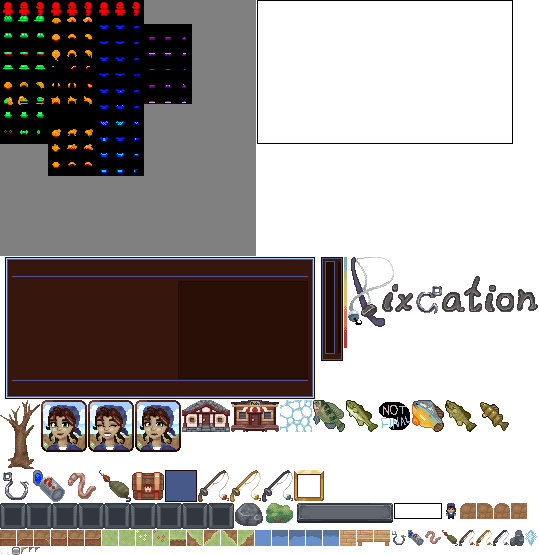
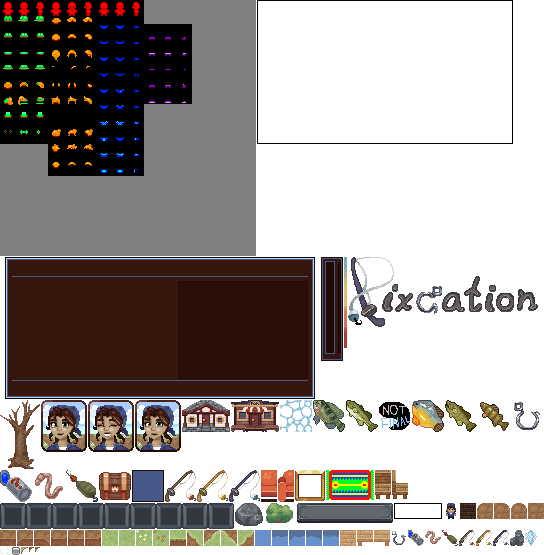
let the player walk into residents' homes with seeded rooms, couches, rugs, tables, and chairs

diff --git a/game.js b/game.js
@@ -5529,6 +5529,93 @@ function createMysteryBaitTextures(scene) {
     }
 }
 
+function getInteriorTexture(scene, key, source, from, to) {
+    if (scene.textures.exists(key)) return key;
+    const { width, height, data } = getTerrainPixels(scene, source), pixels = new ImageData(new Uint8ClampedArray(data), width, height);
+    for (let pixel = 0; pixel < width * height; pixel++) {
+        const slot = from.indexOf(readTreePixel(pixels.data, pixel));
+        if (slot >= 0 && pixels.data[pixel * 4 + 3]) writeRGBPixel(pixels.data, pixel, to[slot]);
+    }
+    createCanvasTexture(scene, key, width, height, context => context.putImageData(pixels, 0, 0));
+    return key;
+}
+
+function getRugColors(house, random) {
+    const options = [];
+    for (const chunk of loadedChunks.values()) for (const npc of chunk.npcs || []) if (house.residents.includes(npc.id)) options.push((palette => [palette.shirt[1], palette.pants[1], palette.skin[1], palette.hair[1], palette.top[1], palette.shirtAccent, palette.pantsAccent[1]])(getPersonPalette(npc.look)));
+    if (!options.length) options.push(INTERIOR_COUCH_PALETTES.map(ramp => ramp[4]));
+    const colors = [];
+    for (let slot = 0; slot < INTERIOR_RUG_SLOTS.length; slot++) {
+        const choices = options[slot % options.length].filter(color => !colors.includes(color));
+        colors.push(choices.length ? choices[Math.floor(random() * choices.length)] : options[0][slot]);
+    }
+    return colors;
+}
+
+function buildInterior(scene, house) {
+    const random = createSeededRandom(Math.floor(worldHash(house.x, house.y, 3301) * 4294967296));
+    const width = 8 + Math.floor(random() * 3), height = 5 + Math.floor(random() * 3), exit = Math.floor(width / 2);
+    const left = (house.doorX - exit) * TILE_SIZE, top = (house.doorY - height) * TILE_SIZE;
+    const room = { house, left, top, right: left + width * TILE_SIZE, bottom: top + height * TILE_SIZE, doorLeft: left + exit * TILE_SIZE, blocked: [], layer: scene.add.layer().setDepth(INTERIOR_DEPTH) };
+    const place = (key, x, y, depth, flip = false) => room.layer.add(scene.add.image(x, y, key).setOrigin(0).setDepth(depth).setFlipX(flip));
+    room.layer.add(scene.add.rectangle(-2000, -2000, 6000, 6000, 0x000000).setOrigin(0).setScrollFactor(0).setDepth(-1e9));
+    for (let row = 0; row <= height; row++) for (let column = 0; column < width; column++) if (row < height || column === exit) place('insideFloor', left + column * TILE_SIZE, top + row * TILE_SIZE, -1e8);
+    const rugX = left + TILE_SIZE / 2 + Math.floor(random() * (width * TILE_SIZE - 64)), rugY = top + TILE_SIZE + 4 + Math.floor(random() * (height * TILE_SIZE - 60));
+    place(getInteriorTexture(scene, `rug-${house.id}`, 'recolorableRug', INTERIOR_RUG_SLOTS, getRugColors(house, random)), rugX, rugY, -1e7);
+    const couchLength = 3 + Math.floor(random() * 2), couchColumn = Math.floor(random() * (width - couchLength + 1)), couchPalette = Math.floor(random() * INTERIOR_COUCH_PALETTES.length);
+    for (let index = 0; index < couchLength; index++) place(getInteriorTexture(scene, `couch-${index % (couchLength - 1) ? 'mid' : 'side'}-${couchPalette}`, index % (couchLength - 1) ? 'couchMid' : 'couchSide', INTERIOR_COUCH_SHADES, INTERIOR_COUCH_PALETTES[couchPalette]), left + (couchColumn + index) * TILE_SIZE, top - TILE_SIZE, top + TILE_SIZE, index === couchLength - 1);
+    room.blocked.push([left + couchColumn * TILE_SIZE, top, left + (couchColumn + couchLength) * TILE_SIZE, top + TILE_SIZE]);
+    const tableLength = 2 + Math.floor(random() * 2), tableRow = 2 + Math.floor(random() * (height - 4)), tableColumn = 1 + Math.floor(random() * (width - tableLength - 1)), tableY = top + tableRow * TILE_SIZE;
+    for (let index = 0; index < tableLength; index++) place(index ? index === tableLength - 1 ? 'woodRight' : 'wood' : 'woodLeft', left + (tableColumn + index) * TILE_SIZE, tableY, tableY + TILE_SIZE);
+    room.blocked.push([left + tableColumn * TILE_SIZE, tableY, left + (tableColumn + tableLength) * TILE_SIZE, tableY + TILE_SIZE]);
+    const chair = (key, column, row, flip) => { place(key, left + column * TILE_SIZE, top + (row + 1) * TILE_SIZE - 29, top + (row + 1) * TILE_SIZE - 0.5, flip); room.blocked.push([left + column * TILE_SIZE + 2, top + row * TILE_SIZE + 8, left + (column + 1) * TILE_SIZE - 2, top + (row + 1) * TILE_SIZE]); };
+    if (random() < 0.75) chair('chairSide', tableColumn - 1, tableRow, false);
+    if (random() < 0.75) chair('chairSide', tableColumn + tableLength, tableRow, true);
+    if (random() < 0.6) chair('chairFront', tableColumn + Math.floor(random() * tableLength), tableRow - 1, false);
+    return Object.assign(room, { startX: room.doorLeft, startY: room.bottom - CHARACTER_SIZE });
+}
+
+function canOccupyInterior(left, top, right, bottom) {
+    const inside = left >= interior.left && right <= interior.right && top >= interior.top && bottom <= interior.bottom;
+    const doorway = left >= interior.doorLeft && right <= interior.doorLeft + TILE_SIZE && top >= interior.top && bottom <= interior.bottom + TILE_SIZE;
+    return (inside || doorway) && !interior.blocked.some(([blockLeft, blockTop, blockRight, blockBottom]) => left < blockRight && right > blockLeft && top < blockBottom && bottom > blockTop);
+}
+
+function snapInteriorCamera() {
+    mainCamera.setScroll(character.x + CHARACTER_SIZE / 2 - mainCamera.width / 2, character.y + CHARACTER_SIZE / 2 - mainCamera.height / 2);
+    cameraScrollX = mainCamera.scrollX; cameraScrollY = mainCamera.scrollY; cameraOffsetX = 0; cameraOffsetY = 0;
+}
+
+function enterInterior(scene, house) {
+    interior = buildInterior(scene, house);
+    interior.layer.add(character);
+    characterShadow.image.setVisible(false);
+    character.setPosition(interior.startX, interior.startY);
+    characterDirection = 'back';
+    setCharacterTexture('character-back');
+    snapInteriorCamera();
+}
+
+function leaveInterior() {
+    if (!interior) return;
+    worldObjectLayer.add(character);
+    character.setPosition(interior.house.doorX * TILE_SIZE, interior.house.doorY * TILE_SIZE);
+    interior.layer.destroy();
+    interior = null;
+    characterShadow.image.setVisible(true);
+    characterDirection = 'front';
+    setCharacterTexture('character-front');
+    snapInteriorCamera();
+}
+
+function updateInterior(scene) {
+    if (spawnReturn || isMenuOpen()) return;
+    const top = character.y + CHARACTER_HITBOX_Y, centerX = character.x + CHARACTER_HITBOX_X + CHARACTER_HITBOX_WIDTH / 2;
+    if (interior) { if (top + CHARACTER_HITBOX_HEIGHT > interior.bottom + 6) leaveInterior(); return; }
+    if (!characterKeys.up.isDown && !characterKeys.upArrow.isDown) return;
+    for (const house of npcHouseCache.values()) if (house && npcHouseSprites.has(house.id) && Math.abs(centerX - (house.doorX + 0.5) * TILE_SIZE) < 5 && top >= house.doorY * TILE_SIZE - 1 && top <= house.doorY * TILE_SIZE + 2) return enterInterior(scene, house);
+}
+
 const fishMigrations = [];
 let fishRegionStack;
 let fishRegionPixels;
@@ -8245,7 +8332,7 @@ function createInteractionPromptUI(scene) {
 function updateInteractionPrompt(scene, guideReach, marketReach) {
     if (!interactionPromptLayer) return;
 
-    const time = scene.time.now, available = !isMenuOpen() && time >= catchCardUntil;
+    const time = scene.time.now, available = !isMenuOpen() && !interior && time >= catchCardUntil;
     const target = available && (guideReach < 1 || marketReach < 1)
         ? getInteractionTarget(guideHasMetPlayer, guideReach, marketReach)
         : null;
@@ -9904,6 +9991,27 @@ const FISH_JUMP_DROPLET_COLOR = 0xbce6eb;
 const NPC_DRAW_MARGIN = 128;
 const HOUSE_WIDTH = 48;
 const HOUSE_HEIGHT = 32;
+const INTERIOR_DEPTH = 55;
+const INTERIOR_COUCH_SHADES = [0x802c29, 0x943531, 0xa83e39, 0xc2513d, 0xdd6641, 0xe5854d, 0xeca259];
+const INTERIOR_RUG_SLOTS = [0xff1100, 0x00ff1a, 0x0048ff, 0xfff600];
+const INTERIOR_COUCH_PALETTES = [
+    [0x802c29, 0x943531, 0xa83e39, 0xc2513d, 0xdd6641, 0xe5854d, 0xeca259],
+    [0x1f2a5c, 0x26346e, 0x2f4183, 0x3a549c, 0x4a6bb8, 0x6286c9, 0x86a5d8],
+    [0x174a4a, 0x1d5a58, 0x236b67, 0x2c827a, 0x3a9c90, 0x56b3a4, 0x80c9b8],
+    [0x24401f, 0x2c4e25, 0x355d2c, 0x427336, 0x528a40, 0x6ca255, 0x92bb72],
+    [0x464420, 0x555226, 0x64602c, 0x7a7536, 0x928c42, 0xa8a258, 0xc0bb7c],
+    [0x7a5418, 0x8e631c, 0xa27321, 0xbc8a2a, 0xd4a336, 0xdfb850, 0xe8cd7a],
+    [0x3e2360, 0x4a2b72, 0x573486, 0x6a43a0, 0x8156b8, 0x9a73c9, 0xb898da],
+    [0x5a1e3c, 0x6a2547, 0x7b2c53, 0x933866, 0xab477b, 0xbf6593, 0xd38db0],
+    [0x9a3c5c, 0xae4868, 0xc25675, 0xd66b88, 0xe5849c, 0xeda0b3, 0xf3bfcd],
+    [0x3c3c42, 0x48484f, 0x55555d, 0x686871, 0x7e7e87, 0x96969e, 0xb3b3b9],
+    [0x1e1e24, 0x26262d, 0x2f2f37, 0x3b3b44, 0x4a4a54, 0x5e5e69, 0x787883],
+    [0x9c8a6a, 0xae9c7a, 0xc0ae8b, 0xd3c29f, 0xe2d4b4, 0xece2c8, 0xf5eedc],
+    [0x4a2c1c, 0x583421, 0x673e27, 0x7c4d30, 0x94603b, 0xab774d, 0xc39466],
+    [0x3d6a96, 0x467aa7, 0x5089b8, 0x5f9ecb, 0x74b4dc, 0x92c8e6, 0xb6dcef],
+    [0x3f7a62, 0x488b6f, 0x529c7d, 0x63b18f, 0x79c6a3, 0x98d6b9, 0xbde5d1],
+    [0x6a5a8c, 0x77679c, 0x8575ad, 0x9888c2, 0xad9ed4, 0xc2b5e0, 0xd9cfec]
+];
 const MYSTERY_CYCLE_MINUTES = 20;
 const MYSTERY_FORECAST_CYCLES = 3;
 const MYSTERY_CATCH_CHANCE = 0.85;
@@ -9925,6 +10033,7 @@ let itemLabelUntil = 0;
 let itemPrompt;
 let selectedHotbarSlot = 0;
 let worldObjectLayer;
+let interior = null;
 
 const loadedChunks = new Map();
 const loadedWaterChunks = new Set();
@@ -10119,6 +10228,7 @@ function getTextureAliases() {
     for (const key of ['bush', 'boulder', 'rock', 'tree-bare', 'store', 'house']) {
         alias(key, `environment/objects/${key}`);
     }
+    for (const key of ['couchMid', 'couchSide', 'insideFloor', 'recolorableRug', 'chairFront', 'chairSide']) alias(key, `environment/interior/${key}`);
 
     for (const mood of ['friendly', 'laughing', 'surprised']) {
         alias(`guide-portrait-${mood}`, `characters/guide/${mood}`);
@@ -10220,6 +10330,7 @@ function bindGameInput(scene) {
     };
 
     const pressAction = source => {
+        if (interior) return;
         if (catchCardUntil === Infinity) hideCatchCard(scene);
         const wasHeld = heldActions.size > 0;
         heldActions.add(source);
@@ -10369,8 +10480,8 @@ function bindGameInput(scene) {
         else if (code === 'Space') pressAction('keyboard');
         else if (key === 'm') openMenu(() => openMap(scene));
         else if (key === 'b') cycleBait(scene);
-        else if (code === 'KeyH') { closeMap(scene); resetActions(); returnToSpawn(scene); }
-        else if (key === 'e') openMenu(() => openInteraction(scene, getInteractionTarget(true)));
+        else if (code === 'KeyH') { closeMap(scene); leaveInterior(); resetActions(); returnToSpawn(scene); }
+        else if (key === 'e' && !interior) openMenu(() => openInteraction(scene, getInteractionTarget(true)));
         else if (CHEATS_ENABLED && key === 's') spawnSturgeonAtCursor(scene);
         else if (slot >= 0 && slot < 9) selectHotbarSlot(scene, slot);
     });
@@ -10625,7 +10736,7 @@ function saveProgress() {
             activeBait: activeBaitId,
             chests: [...openedChests],
             guideMet: guideHasMetPlayer,
-            position: character ? [Math.round(character.x), Math.round(character.y)] : null,
+            position: character ? interior ? [interior.house.doorX * TILE_SIZE, interior.house.doorY * TILE_SIZE] : [Math.round(character.x), Math.round(character.y)] : null,
             npcs: mainCamera ? getSavedNpcs(mainCamera.scene.time.now) : [],
             stats: Object.fromEntries(Object.entries(playerStats).map(([key, value]) => [key, Math.floor(value)]))
         }));
@@ -10723,6 +10834,7 @@ function canCharacterOccupy(scene, x, y, ignoreNpc) {
     const top = y + CHARACTER_HITBOX_Y;
     const right = left + CHARACTER_HITBOX_WIDTH;
     const bottom = top + CHARACTER_HITBOX_HEIGHT;
+    if (interior) return canOccupyInterior(left, top, right, bottom);
 
     if (
         actorBlocksRect(guide, GUIDE_HITBOX_X, GUIDE_HITBOX_Y, GUIDE_HITBOX_WIDTH, GUIDE_HITBOX_HEIGHT, left, top, right, bottom) ||
@@ -10994,6 +11106,7 @@ function followCameraAxis(offset, lag) {
 }
 
 function updateCamera(delta) {
+    if (interior) return mainCamera.setScroll(Math.round((interior.left + interior.right - mainCamera.width) / 2), Math.round((interior.top + interior.bottom - mainCamera.height) / 2) + TILE_SIZE);
     const baseScrollX = character.x + CHARACTER_SIZE / 2 - mainCamera.width / 2;
     const baseScrollY = character.y + CHARACTER_SIZE / 2 - mainCamera.height / 2;
     const targetX = baseScrollX + characterMoveRemainderX;
@@ -11021,6 +11134,7 @@ function update(time, delta) {
     }
 
     const isWalking = updateCharacter(this, time, delta);
+    updateInterior(this);
     updatePlayTime(time);
 
     character.x = Math.round(character.x);

diff --git a/src/environment/interiors.js b/src/environment/interiors.js
@@ -1,0 +1,86 @@
+function getInteriorTexture(scene, key, source, from, to) {
+    if (scene.textures.exists(key)) return key;
+    const { width, height, data } = getTerrainPixels(scene, source), pixels = new ImageData(new Uint8ClampedArray(data), width, height);
+    for (let pixel = 0; pixel < width * height; pixel++) {
+        const slot = from.indexOf(readTreePixel(pixels.data, pixel));
+        if (slot >= 0 && pixels.data[pixel * 4 + 3]) writeRGBPixel(pixels.data, pixel, to[slot]);
+    }
+    createCanvasTexture(scene, key, width, height, context => context.putImageData(pixels, 0, 0));
+    return key;
+}
+
+function getRugColors(house, random) {
+    const options = [];
+    for (const chunk of loadedChunks.values()) for (const npc of chunk.npcs || []) if (house.residents.includes(npc.id)) options.push((palette => [palette.shirt[1], palette.pants[1], palette.skin[1], palette.hair[1], palette.top[1], palette.shirtAccent, palette.pantsAccent[1]])(getPersonPalette(npc.look)));
+    if (!options.length) options.push(INTERIOR_COUCH_PALETTES.map(ramp => ramp[4]));
+    const colors = [];
+    for (let slot = 0; slot < INTERIOR_RUG_SLOTS.length; slot++) {
+        const choices = options[slot % options.length].filter(color => !colors.includes(color));
+        colors.push(choices.length ? choices[Math.floor(random() * choices.length)] : options[0][slot]);
+    }
+    return colors;
+}
+
+function buildInterior(scene, house) {
+    const random = createSeededRandom(Math.floor(worldHash(house.x, house.y, 3301) * 4294967296));
+    const width = 8 + Math.floor(random() * 3), height = 5 + Math.floor(random() * 3), exit = Math.floor(width / 2);
+    const left = (house.doorX - exit) * TILE_SIZE, top = (house.doorY - height) * TILE_SIZE;
+    const room = { house, left, top, right: left + width * TILE_SIZE, bottom: top + height * TILE_SIZE, doorLeft: left + exit * TILE_SIZE, blocked: [], layer: scene.add.layer().setDepth(INTERIOR_DEPTH) };
+    const place = (key, x, y, depth, flip = false) => room.layer.add(scene.add.image(x, y, key).setOrigin(0).setDepth(depth).setFlipX(flip));
+    room.layer.add(scene.add.rectangle(-2000, -2000, 6000, 6000, 0x000000).setOrigin(0).setScrollFactor(0).setDepth(-1e9));
+    for (let row = 0; row <= height; row++) for (let column = 0; column < width; column++) if (row < height || column === exit) place('insideFloor', left + column * TILE_SIZE, top + row * TILE_SIZE, -1e8);
+    const rugX = left + TILE_SIZE / 2 + Math.floor(random() * (width * TILE_SIZE - 64)), rugY = top + TILE_SIZE + 4 + Math.floor(random() * (height * TILE_SIZE - 60));
+    place(getInteriorTexture(scene, `rug-${house.id}`, 'recolorableRug', INTERIOR_RUG_SLOTS, getRugColors(house, random)), rugX, rugY, -1e7);
+    const couchLength = 3 + Math.floor(random() * 2), couchColumn = Math.floor(random() * (width - couchLength + 1)), couchPalette = Math.floor(random() * INTERIOR_COUCH_PALETTES.length);
+    for (let index = 0; index < couchLength; index++) place(getInteriorTexture(scene, `couch-${index % (couchLength - 1) ? 'mid' : 'side'}-${couchPalette}`, index % (couchLength - 1) ? 'couchMid' : 'couchSide', INTERIOR_COUCH_SHADES, INTERIOR_COUCH_PALETTES[couchPalette]), left + (couchColumn + index) * TILE_SIZE, top - TILE_SIZE, top + TILE_SIZE, index === couchLength - 1);
+    room.blocked.push([left + couchColumn * TILE_SIZE, top, left + (couchColumn + couchLength) * TILE_SIZE, top + TILE_SIZE]);
+    const tableLength = 2 + Math.floor(random() * 2), tableRow = 2 + Math.floor(random() * (height - 4)), tableColumn = 1 + Math.floor(random() * (width - tableLength - 1)), tableY = top + tableRow * TILE_SIZE;
+    for (let index = 0; index < tableLength; index++) place(index ? index === tableLength - 1 ? 'woodRight' : 'wood' : 'woodLeft', left + (tableColumn + index) * TILE_SIZE, tableY, tableY + TILE_SIZE);
+    room.blocked.push([left + tableColumn * TILE_SIZE, tableY, left + (tableColumn + tableLength) * TILE_SIZE, tableY + TILE_SIZE]);
+    const chair = (key, column, row, flip) => { place(key, left + column * TILE_SIZE, top + (row + 1) * TILE_SIZE - 29, top + (row + 1) * TILE_SIZE - 0.5, flip); room.blocked.push([left + column * TILE_SIZE + 2, top + row * TILE_SIZE + 8, left + (column + 1) * TILE_SIZE - 2, top + (row + 1) * TILE_SIZE]); };
+    if (random() < 0.75) chair('chairSide', tableColumn - 1, tableRow, false);
+    if (random() < 0.75) chair('chairSide', tableColumn + tableLength, tableRow, true);
+    if (random() < 0.6) chair('chairFront', tableColumn + Math.floor(random() * tableLength), tableRow - 1, false);
+    return Object.assign(room, { startX: room.doorLeft, startY: room.bottom - CHARACTER_SIZE });
+}
+
+function canOccupyInterior(left, top, right, bottom) {
+    const inside = left >= interior.left && right <= interior.right && top >= interior.top && bottom <= interior.bottom;
+    const doorway = left >= interior.doorLeft && right <= interior.doorLeft + TILE_SIZE && top >= interior.top && bottom <= interior.bottom + TILE_SIZE;
+    return (inside || doorway) && !interior.blocked.some(([blockLeft, blockTop, blockRight, blockBottom]) => left < blockRight && right > blockLeft && top < blockBottom && bottom > blockTop);
+}
+
+function snapInteriorCamera() {
+    mainCamera.setScroll(character.x + CHARACTER_SIZE / 2 - mainCamera.width / 2, character.y + CHARACTER_SIZE / 2 - mainCamera.height / 2);
+    cameraScrollX = mainCamera.scrollX; cameraScrollY = mainCamera.scrollY; cameraOffsetX = 0; cameraOffsetY = 0;
+}
+
+function enterInterior(scene, house) {
+    interior = buildInterior(scene, house);
+    interior.layer.add(character);
+    characterShadow.image.setVisible(false);
+    character.setPosition(interior.startX, interior.startY);
+    characterDirection = 'back';
+    setCharacterTexture('character-back');
+    snapInteriorCamera();
+}
+
+function leaveInterior() {
+    if (!interior) return;
+    worldObjectLayer.add(character);
+    character.setPosition(interior.house.doorX * TILE_SIZE, interior.house.doorY * TILE_SIZE);
+    interior.layer.destroy();
+    interior = null;
+    characterShadow.image.setVisible(true);
+    characterDirection = 'front';
+    setCharacterTexture('character-front');
+    snapInteriorCamera();
+}
+
+function updateInterior(scene) {
+    if (spawnReturn || isMenuOpen()) return;
+    const top = character.y + CHARACTER_HITBOX_Y, centerX = character.x + CHARACTER_HITBOX_X + CHARACTER_HITBOX_WIDTH / 2;
+    if (interior) { if (top + CHARACTER_HITBOX_HEIGHT > interior.bottom + 6) leaveInterior(); return; }
+    if (!characterKeys.up.isDown && !characterKeys.upArrow.isDown) return;
+    for (const house of npcHouseCache.values()) if (house && npcHouseSprites.has(house.id) && Math.abs(centerX - (house.doorX + 0.5) * TILE_SIZE) < 5 && top >= house.doorY * TILE_SIZE - 1 && top <= house.doorY * TILE_SIZE + 2) return enterInterior(scene, house);
+}

diff --git a/src/runtime/settings.js b/src/runtime/settings.js
@@ -613,6 +613,27 @@ const FISH_JUMP_DROPLET_COLOR = 0xbce6eb;
 const NPC_DRAW_MARGIN = 128;
 const HOUSE_WIDTH = 48;
 const HOUSE_HEIGHT = 32;
+const INTERIOR_DEPTH = 55;
+const INTERIOR_COUCH_SHADES = [0x802c29, 0x943531, 0xa83e39, 0xc2513d, 0xdd6641, 0xe5854d, 0xeca259];
+const INTERIOR_RUG_SLOTS = [0xff1100, 0x00ff1a, 0x0048ff, 0xfff600];
+const INTERIOR_COUCH_PALETTES = [
+    [0x802c29, 0x943531, 0xa83e39, 0xc2513d, 0xdd6641, 0xe5854d, 0xeca259],
+    [0x1f2a5c, 0x26346e, 0x2f4183, 0x3a549c, 0x4a6bb8, 0x6286c9, 0x86a5d8],
+    [0x174a4a, 0x1d5a58, 0x236b67, 0x2c827a, 0x3a9c90, 0x56b3a4, 0x80c9b8],
+    [0x24401f, 0x2c4e25, 0x355d2c, 0x427336, 0x528a40, 0x6ca255, 0x92bb72],
+    [0x464420, 0x555226, 0x64602c, 0x7a7536, 0x928c42, 0xa8a258, 0xc0bb7c],
+    [0x7a5418, 0x8e631c, 0xa27321, 0xbc8a2a, 0xd4a336, 0xdfb850, 0xe8cd7a],
+    [0x3e2360, 0x4a2b72, 0x573486, 0x6a43a0, 0x8156b8, 0x9a73c9, 0xb898da],
+    [0x5a1e3c, 0x6a2547, 0x7b2c53, 0x933866, 0xab477b, 0xbf6593, 0xd38db0],
+    [0x9a3c5c, 0xae4868, 0xc25675, 0xd66b88, 0xe5849c, 0xeda0b3, 0xf3bfcd],
+    [0x3c3c42, 0x48484f, 0x55555d, 0x686871, 0x7e7e87, 0x96969e, 0xb3b3b9],
+    [0x1e1e24, 0x26262d, 0x2f2f37, 0x3b3b44, 0x4a4a54, 0x5e5e69, 0x787883],
+    [0x9c8a6a, 0xae9c7a, 0xc0ae8b, 0xd3c29f, 0xe2d4b4, 0xece2c8, 0xf5eedc],
+    [0x4a2c1c, 0x583421, 0x673e27, 0x7c4d30, 0x94603b, 0xab774d, 0xc39466],
+    [0x3d6a96, 0x467aa7, 0x5089b8, 0x5f9ecb, 0x74b4dc, 0x92c8e6, 0xb6dcef],
+    [0x3f7a62, 0x488b6f, 0x529c7d, 0x63b18f, 0x79c6a3, 0x98d6b9, 0xbde5d1],
+    [0x6a5a8c, 0x77679c, 0x8575ad, 0x9888c2, 0xad9ed4, 0xc2b5e0, 0xd9cfec]
+];
 const MYSTERY_CYCLE_MINUTES = 20;
 const MYSTERY_FORECAST_CYCLES = 3;
 const MYSTERY_CATCH_CHANCE = 0.85;

diff --git a/src/runtime/input.js b/src/runtime/input.js
@@ -49,6 +49,7 @@ function bindGameInput(scene) {
     };
 
     const pressAction = source => {
+        if (interior) return;
         if (catchCardUntil === Infinity) hideCatchCard(scene);
         const wasHeld = heldActions.size > 0;
         heldActions.add(source);
@@ -198,8 +199,8 @@ function bindGameInput(scene) {
         else if (code === 'Space') pressAction('keyboard');
         else if (key === 'm') openMenu(() => openMap(scene));
         else if (key === 'b') cycleBait(scene);
-        else if (code === 'KeyH') { closeMap(scene); resetActions(); returnToSpawn(scene); }
-        else if (key === 'e') openMenu(() => openInteraction(scene, getInteractionTarget(true)));
+        else if (code === 'KeyH') { closeMap(scene); leaveInterior(); resetActions(); returnToSpawn(scene); }
+        else if (key === 'e' && !interior) openMenu(() => openInteraction(scene, getInteractionTarget(true)));
         else if (CHEATS_ENABLED && key === 's') spawnSturgeonAtCursor(scene);
         else if (slot >= 0 && slot < 9) selectHotbarSlot(scene, slot);
     });

diff --git a/src/runtime/progress.js b/src/runtime/progress.js
@@ -135,7 +135,7 @@ function saveProgress() {
             activeBait: activeBaitId,
             chests: [...openedChests],
             guideMet: guideHasMetPlayer,
-            position: character ? [Math.round(character.x), Math.round(character.y)] : null,
+            position: character ? interior ? [interior.house.doorX * TILE_SIZE, interior.house.doorY * TILE_SIZE] : [Math.round(character.x), Math.round(character.y)] : null,
             npcs: mainCamera ? getSavedNpcs(mainCamera.scene.time.now) : [],
             stats: Object.fromEntries(Object.entries(playerStats).map(([key, value]) => [key, Math.floor(value)]))
         }));

diff --git a/src/ui/prompts.js b/src/ui/prompts.js
@@ -67,7 +67,7 @@ function createInteractionPromptUI(scene) {
 function updateInteractionPrompt(scene, guideReach, marketReach) {
     if (!interactionPromptLayer) return;
 
-    const time = scene.time.now, available = !isMenuOpen() && time >= catchCardUntil;
+    const time = scene.time.now, available = !isMenuOpen() && !interior && time >= catchCardUntil;
     const target = available && (guideReach < 1 || marketReach < 1)
         ? getInteractionTarget(guideHasMetPlayer, guideReach, marketReach)
         : null;

diff --git a/src/runtime/camera.js b/src/runtime/camera.js
@@ -3,6 +3,7 @@ function followCameraAxis(offset, lag) {
 }
 
 function updateCamera(delta) {
+    if (interior) return mainCamera.setScroll(Math.round((interior.left + interior.right - mainCamera.width) / 2), Math.round((interior.top + interior.bottom - mainCamera.height) / 2) + TILE_SIZE);
     const baseScrollX = character.x + CHARACTER_SIZE / 2 - mainCamera.width / 2;
     const baseScrollY = character.y + CHARACTER_SIZE / 2 - mainCamera.height / 2;
     const targetX = baseScrollX + characterMoveRemainderX;

diff --git a/src/runtime/assets.js b/src/runtime/assets.js
@@ -23,6 +23,7 @@ function getTextureAliases() {
     for (const key of ['bush', 'boulder', 'rock', 'tree-bare', 'store', 'house']) {
         alias(key, `environment/objects/${key}`);
     }
+    for (const key of ['couchMid', 'couchSide', 'insideFloor', 'recolorableRug', 'chairFront', 'chairSide']) alias(key, `environment/interior/${key}`);
 
     for (const mood of ['friendly', 'laughing', 'surprised']) {
         alias(`guide-portrait-${mood}`, `characters/guide/${mood}`);

diff --git a/src/runtime/character.js b/src/runtime/character.js
@@ -71,6 +71,7 @@ function canCharacterOccupy(scene, x, y, ignoreNpc) {
     const top = y + CHARACTER_HITBOX_Y;
     const right = left + CHARACTER_HITBOX_WIDTH;
     const bottom = top + CHARACTER_HITBOX_HEIGHT;
+    if (interior) return canOccupyInterior(left, top, right, bottom);
 
     if (
         actorBlocksRect(guide, GUIDE_HITBOX_X, GUIDE_HITBOX_Y, GUIDE_HITBOX_WIDTH, GUIDE_HITBOX_HEIGHT, left, top, right, bottom) ||

diff --git a/src/runtime/update.js b/src/runtime/update.js
@@ -8,6 +8,7 @@ function update(time, delta) {
     }
 
     const isWalking = updateCharacter(this, time, delta);
+    updateInterior(this);
     updatePlayTime(time);
 
     character.x = Math.round(character.x);

diff --git a/src/runtime/state.js b/src/runtime/state.js
@@ -5,6 +5,7 @@ let itemLabelUntil = 0;
 let itemPrompt;
 let selectedHotbarSlot = 0;
 let worldObjectLayer;
+let interior = null;
 
 const loadedChunks = new Map();
 const loadedWaterChunks = new Set();
